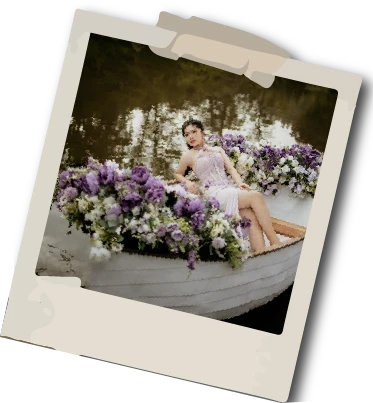
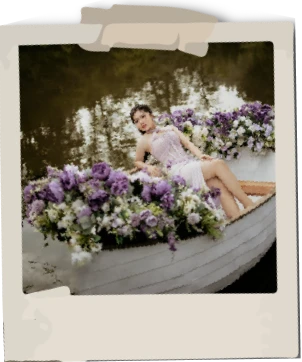
fix gallery

diff --git a/index.html b/index.html
@@ -147,6 +147,16 @@
         --bs-modal-bg: rgba(0, 0, 0, 0);
       }
 
+      /* gallery */
+      #img1{
+        transform: rotate(-14deg) !important;
+      }
+      #img2{
+        transform: rotate(14deg) !important;
+      }
+      #img6{
+        transform: rotate(-14deg) !important;
+      }
       /* form */
       .wish-form button {
         background-color: #8E20BF;
@@ -200,8 +210,8 @@
           padding-top: 25%;
         }
         .timer .col-4 {
-          width: 8.8vw;
-          height: 13.3vw;
+          width: 7.3vw;
+          height: 10.7vw;
           padding-top: 3vw;
         }
 
@@ -328,23 +338,23 @@
           <img
             src="assets/slide_3/bg3_5.webp"
             alt="date title"
-            class="img-fluid img-float tw-pl-[3vw] tw-pr-[0] tw-mt-[6vw] md:tw-mt-[2vw] md:tw-pl-[0vw] md:tw-pr-[6vw]"
+            class="img-fluid img-float tw-pr-[14vw] tw-pl-[0] tw-mt-[6vw] md:tw-mt-[2vw] md:tw-pl-[3vw] md:tw-pr-[10vw]"
           />
           <div class="row timer d-flex justify-content-center tw-px-[10vw] md:tw--translate-x-[1vw] md:tw--translate-y-[6vw] md:tw-text-lg">
             <div
               class="col-4 tw-bg-[url('assets/slide_3/bg3_2.webp')]"
             >
-              <p id="day" class="tw-text-white tw-text-3xl md:tw-text-5xl">00</p>
+              <p id="day" class="tw-text-white tw-text-3xl md:tw-text-4xl">00</p>
             </div>
             <div
               class="col-4 mx-4  tw-bg-[url('assets/slide_3/bg3_3.webp')]"
             >
-              <p id="hrs" class="tw-text-white tw-text-3xl md:tw-text-5xl">00</p>
+              <p id="hrs" class="tw-text-white tw-text-3xl md:tw-text-4xl">00</p>
             </div>
             <div
               class="col-4 tw-bg-[url('assets/slide_3/bg3_4.webp')]"
             >
-              <p id="min" class="tw-text-white tw-text-3xl md:tw-text-5xl">00</p>
+              <p id="min" class="tw-text-white tw-text-3xl md:tw-text-4xl">00</p>
             </div>
           </div>
         </div>
@@ -407,7 +417,7 @@
     </div>
     <!-- break -->
     <div
-      class="bg tw-bg-[url('assets/slide_6/bg6_c.webp')] md:tw-bg-[url('assets/desktop/bg6_ds.webp')] md:tw-pt-[60%]"
+      class="bg tw-bg-[url('assets/slide_6/bg6.webp')] md:tw-bg-[url('assets/desktop/bg6_ds.webp')] md:tw-pt-[56%]"
       id="6"
     >
       <section class="tw-text-center tw-top-[5%] tw-px-[1vw] md:tw-px-[5vw] md:tw-top-[8%] md:tw-grid md:tw-grid-cols-2">
@@ -421,33 +431,36 @@
             <img
               src="assets/slide_6/bg6_2.webp"
               alt="gallery img 3"
-              class="img-fluid img-float md:tw-pr-[0.5vw]"
+              class="img-fluid img-float tw-pl-[4vw] tw-pr-[5vw] md:tw-pl-[2.5vw] md:tw-pr-[0.8vw]"
               data-bs-toggle="modal"
               data-bs-target="#myModal"
-              onclick="act4()"
+              onclick="act1()"
+              id="img1"
             />
             <img
               src="assets/slide_6/bg6_3.webp"
               alt="gallery img 3"
-              class="img-fluid img-float md:tw-pl-[0.8vw]"
+              class="img-fluid img-float tw-pl-[4vw] tw-pr-[4vw] md:tw-pr-[1vw] md:tw-pl-[2.5vw]"
               data-bs-toggle="modal"
               data-bs-target="#myModal"
               onclick="act2()"
+              id="img2"
             />
           </div>
           <img
-              src="assets/slide_6/bg6_4.webp"
-              alt="gallery img 3"
-              class="img-fluid img-float tw-px-[34vw] tw--mt-[16.5vw] md:tw-pl-[17vw] md:tw-pr-[16vw] md:tw--mt-[7.3vw]"
-              data-bs-toggle="modal"
-              data-bs-target="#myModal"
-              onclick="act2()"
-            />
-          <div class="tw-grid tw-grid-cols-2 tw-gap-[21vw] tw-px-[5vw] tw--mt-[9.5vw] md:tw-px-[4.2vw] md:tw--mt-[3.8vw] md:tw-gap-[5.8vw]">
+            src="assets/slide_6/bg6_4.webp"
+            alt="gallery img 3"
+            class="img-fluid img-float tw-w-[30vw] tw--mt-[13.5vw] md:tw-ml-[2vw] md:tw-w-[11vw] md:tw--mt-[6vw]"
+            data-bs-toggle="modal"
+            data-bs-target="#myModal"
+            onclick="act3()"
+          />
+
+          <div class="tw-grid tw-grid-cols-2 tw-gap-[21vw] tw-px-[5vw] tw--mt-[9.5vw] md:tw-px-[4.8vw] md:tw--mt-[3.8vw] md:tw-gap-[5.4vw]">
             <img
               src="assets/slide_6/bg6_5.webp"
               alt="gallery img 3"
-              class="img-fluid img-float md:tw-pr-[1.2vw]"
+              class="img-fluid img-float  md:tw-pl-[1.5vw] md:tw-pr-[0.5vw]"
               data-bs-toggle="modal"
               data-bs-target="#myModal"
               onclick="act4()"
@@ -458,16 +471,18 @@
               class="img-fluid img-float md:tw-pl-[1.5vw]"
               data-bs-toggle="modal"
               data-bs-target="#myModal"
-              onclick="act2()"
+              onclick="act5()"
+             
             />
           </div>
           <img
           src="assets/slide_6/bg6_7.webp"
           alt="gallery img 3"
-          class="img-fluid img-float tw-pl-[33vw] tw-pr-[30vw] tw--mt-[22vw] md:tw-pl-[16vw] md:tw-pr-[14vw] md:tw--mt-[9.5vw]"
+          class="img-fluid img-float tw-w-[30vw] tw--mt-[20vw] md:tw-ml-[2vw] md:tw-w-[11vw] md:tw--mt-[8vw]"
           data-bs-toggle="modal"
           data-bs-target="#myModal"
-          onclick="act2()"
+          onclick="act6()"
+          id="img6"
         />
         </div>
       <div>
@@ -616,13 +631,48 @@
         <div class="modal-content">
           <div class="carousel slide" id="carouselExample">
             <div class="carousel-inner">
-              <!-- <div class="carousel-item active px-4" id="act1">
+              <div class="carousel-item active px-4" id="act1">
                 <img
                   src="assets/slide_6/foto1.webp"
                   class="d-block w-100"
                   alt="..."
                 />
-              </div> -->
+              </div>
+              <div class="carousel-item active px-4" id="act2">
+                <img
+                  src="assets/slide_6/foto2.webp"
+                  class="d-block w-100"
+                  alt="..."
+                />
+              </div>
+              <div class="carousel-item active px-4" id="act3">
+                <img
+                  src="assets/slide_6/foto3.webp"
+                  class="d-block w-100"
+                  alt="..."
+                />
+              </div>
+              <div class="carousel-item active px-4" id="act4">
+                <img
+                  src="assets/slide_6/foto4.webp"
+                  class="d-block w-100"
+                  alt="..."
+                />
+              </div>
+              <div class="carousel-item active px-4" id="act5">
+                <img
+                  src="assets/slide_6/foto5.webp"
+                  class="d-block w-100"
+                  alt="..."
+                />
+              </div>
+              <div class="carousel-item active px-4" id="act6">
+                <img
+                  src="assets/slide_6/foto6.webp"
+                  class="d-block w-100"
+                  alt="..."
+                />
+              </div>
             </div>
             <button
               class="carousel-control-prev"
@@ -792,6 +842,14 @@
       function act4() {
         $(".carousel-item").removeClass("active");
         $("#act4").addClass("active");
+      }
+      function act5() {
+        $(".carousel-item").removeClass("active");
+        $("#act5").addClass("active");
+      }
+      function act6() {
+        $(".carousel-item").removeClass("active");
+        $("#act6").addClass("active");
       }
       // Audio control functionality
       let audioElement = document.getElementById("myAudio");
